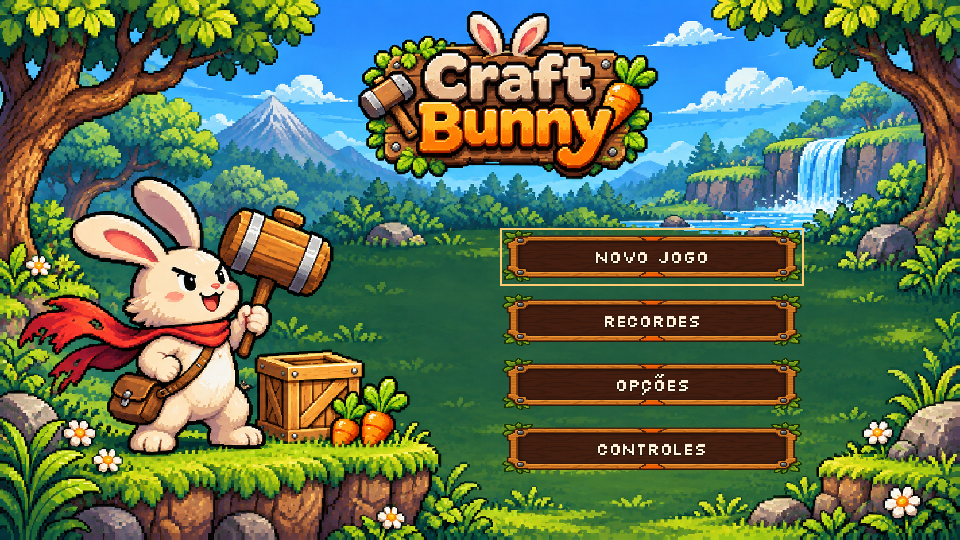
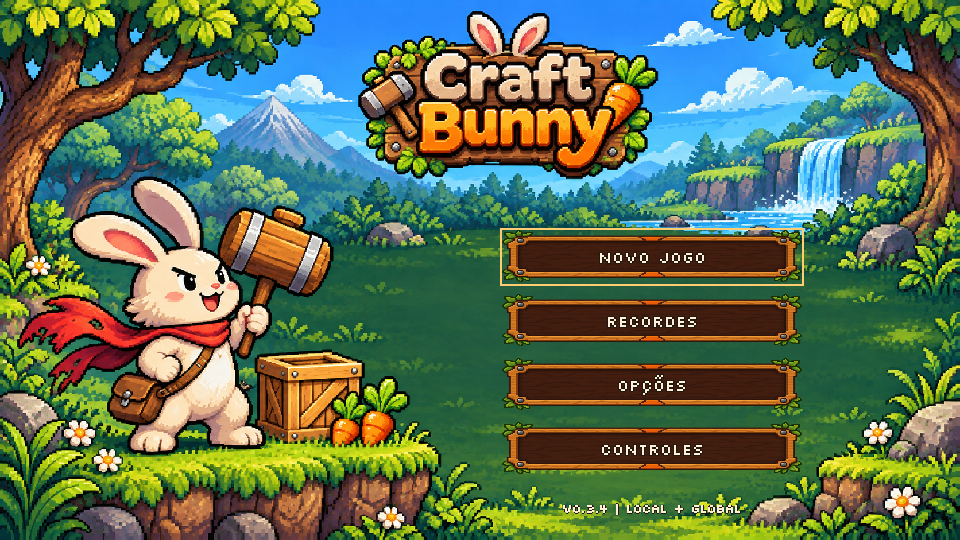
Configure production leaderboard URL and build Android 0.3.4

diff --git a/game/README.md b/game/README.md
@@ -1,6 +1,6 @@
 # Craft Bunny 🐰🔨 — Godot 4
 
-> **Status:** protótipo v0.3.3 com verificações automatizadas e APK de teste exportado; QA completo e playtest em Android físico pendentes. **Objetivo:** concluir uma versão 1.0 jogável de **uma única fase longa**, com pontuação por cenouras e ranking local. **Engine validada:** Godot 4.7.2 / GDScript / 2D.
+> **Status:** protótipo v0.3.4 com verificações automatizadas e APK de teste exportado; QA completo e playtest em Android físico pendentes. **Objetivo:** concluir uma versão 1.0 jogável de **uma única fase longa**, com pontuação por cenouras e ranking local/global. **Engine validada:** Godot 4.7.2 / GDScript / 2D.
 
 ## O jogo
 
@@ -10,13 +10,13 @@
 
 ## Iniciar e testar
 
-Cliente global opcional 0.3.4: confirmação no fim da tentativa, consulta pelo menu RECORDES e ranking local preservado sem internet. Configure a URL pública antes de exportar; o APK anterior 0.3.3 não inclui esta integração. Guia em ../docs/GLOBAL_RANKING.md.
+Cliente global opcional 0.3.4 configurado para https://craftbunny-web.vercel.app: confirmação no fim da tentativa, consulta pelo menu RECORDES e ranking local preservado sem internet. Ao terminar com cenouras, use três letras e ENVIAR AO GLOBAL; REGISTRAR LOCAL não publica. O APK anterior 0.3.3 não inclui esta integração. Guia em ../docs/GLOBAL_RANKING.md.
 
 Título, opções e controles com tema pixel art; inimigos exibem balão de detecção e feedback de dano. Arte, fonte, testes e limitações em assets/production/v2/pixel_menus_feedback.md.
 
 Atualização visual: mundo ampliado em 25% pela câmera, com colisões preservadas. Ataque exclusivo do coelho em 12 quadros, martelo maior e alcance frontal de 32 unidades. Detalhes e testes em assets/production/v2/bunny_attack_12.md.
 
-Versão Android de teste já exportada na pasta de trabalho anterior, com controles multitoque, paisagem e mínimo API 24. APKs não são versionados neste repositório; novas exportações ficam em builds/. Instalação, build e limitações em docs/ANDROID_BUILD.md. Execução em aparelho ainda pendente.
+Versão Android atual em builds/CraftBunny-Android-0.3.4.apk, com controles multitoque, paisagem e mínimo API 24. APKs não são versionados. Instalação, build e limitações em docs/ANDROID_BUILD.md. Execução em aparelho ainda pendente.
 
 1. Instale **Godot 4.3 ou superior**.
 2. Abra o gerenciador de projetos da Godot, clique em **Importar** e escolha `project.godot` nesta pasta.

diff --git a/game/docs/ANDROID_BUILD.md b/game/docs/ANDROID_BUILD.md
@@ -1,19 +1,25 @@
 # Craft Bunny — APK de teste
 
-Build gerado em 2026-11-06 com Godot 4.7.2.
+Build atualizado em 2026-11-07 com Godot 4.7.2.
 
-- Arquivo: builds/CraftBunny-Android-Test.apk
+- Arquivo: builds/CraftBunny-Android-0.3.4.apk (também disponível como CraftBunny-Android-Test.apk).
 - Pacote: com.craftbunny.game
-- Versão: 0.3.3-android-test (código 3), menus pixel art e feedback de dano/detecção.
+- Versão: 0.3.4-android-test (código 4), cliente global configurado para https://craftbunny-web.vercel.app.
 - Mínimo: Android API 24 (Android 7.0), aparelho com OpenGL ES 3 compatível com o renderer Compatibility.
 - Target SDK: 36.
 - Arquiteturas: arm64-v8a e armeabi-v7a.
 - Orientação: paisagem, conteúdo 960x540 com proporção preservada.
-- Tamanho: 79.733.045 bytes (76,04 MiB).
-- SHA256: 776118388750D93A8C7AC7CAA83BFC1715D6A3A23E5988C1D49910FC0DDB8738
+- Tamanho: 79.737.304 bytes (76,04 MiB).
+- SHA256: D7354F4C5C7BE2A2323D84325DFF6400FC4E23A7F7914448E23149546B599722
 - Assinatura de depuração verificada: esquemas v2 e v3.
 
 ## Instalar
+
+Pode atualizar por cima do 0.3.3: mesma assinatura e mesmo pacote, conferidos. No título aparece v0.3.4 | LOCAL + GLOBAL. Comece uma tentativa nova com internet; ao terminar com cenouras, preencha três letras e pressione ENVIAR AO GLOBAL. REGISTRAR LOCAL salva somente no aparelho. Resultados antigos não são enviados retroativamente.
+
+Confirmados no APK: permissão INTERNET e URL real dentro de assets/project.binary. Cliente desktop abriu sessão real e consultou o ranking; nenhum score fictício foi publicado. Envio completo validado em banco local de teste. Playtest Android físico e envio de resultado real ainda pendentes.
+
+tools/build_android.ps1 agora restaura o preset sanitizado ao terminar, inclusive se ocorrer falha, para não deixar caminhos/credenciais locais no arquivo versionado. A configuração headless do editor reportou RIDs em uso ao sair; exportação/assinatura concluíram e importação normal/smoke passaram.
 
 Copie o APK para o celular e abra pelo gerenciador de arquivos. Se solicitado, permita que esse gerenciador instale apps dessa origem. É uma versão de teste para instalação direta; não é uma publicação na Play Store.
 

diff --git a/game/ROADMAP.md b/game/ROADMAP.md
@@ -85,6 +85,8 @@
 
 ## Registro de execução (Codex deve preencher a cada sessão)
 
+Ativação do cliente global (2026-11-07): corrigida URL vazia; configurado https://craftbunny-web.vercel.app e exibida versão 0.3.4 no título. Consulta e abertura de uma sessão reais passaram, sem publicar scores de teste. Dez checks de integração local e 16 de fluxo passaram; importação/smoke e título OpenGL revisados. APK código 4 exportado, assinatura v2/v3, mesma chave do 0.3.3, INTERNET e URL interna conferidos. Build restaura preset sanitizado. Playtest em aparelho e envio público real pendentes. Ver docs/ANDROID_BUILD.md e ../docs/GLOBAL_RANKING.md.
+
 Ranking global (2026-11-07, escopo adicional autorizado): site pixel art, API Vercel e migração Supabase; cliente opcional com confirmação, ranking local independente. 18 testes API/SQL, dez verificações Godot/HTTP/PostgreSQL e 16 checks de fluxo local passaram; build web e QA de filtros/paginação/móvel executados. Ativação online e APK com URL real pendentes. Ver ../docs/GLOBAL_RANKING.md.
 
 Repositório (2026-11-07): cópia organizada em game/, com web/ e supabase/ reservados ao ranking global. Fontes/assets preservados; presets sanitizados; build Android aceita engine externa. Importação/smoke e 50 verificações de fluxo/feedback passaram; 21 arquivos de referência conferidos por hash. Detalhes em ../docs/REPOSITORY_SETUP.md. Nenhuma mudança de gameplay ou integração online nesta etapa.

diff --git a/docs/GLOBAL_RANKING.md b/docs/GLOBAL_RANKING.md
@@ -71,7 +71,7 @@ São validações básicas de plausibilidade e abuso. O servidor não reproduz a
 - Navegador: paginação 1–10/11–14, busca FOX, ausência ZZZ, filtro semanal e vitórias, com 14 resultados fictícios em banco local isolado. Nenhum dado de QA enviado ao Supabase.
 - Visual revisado em janela normal e largura móvel 390 px, sem transbordamento horizontal observado. Capturas qa_ranking_desktop.png (sem configuração online) e qa_ranking_mobile.png (faixa de dados fictícios).
 
-Pendentes: aplicar migração online, variáveis/deploy Vercel, URL real no jogo, APK atualizado e teste em aparelho. Contas criadas não configuram esses itens automaticamente.
+Atualização 2026-11-07: usuário informou migração, variáveis e redeploy concluídos. Consulta e criação de sessão no serviço real https://craftbunny-web.vercel.app foram confirmadas pelo cliente Godot (PRODUCTION_LEADERBOARD=true, PRODUCTION_SESSION=true, PUBLIC_SCORES_SUBMITTED=0). URL configurada no jogo e APK 0.3.4 exportado/assinado; URL e permissão de internet verificadas dentro do pacote. Falta validar uma tentativa real em aparelho e o envio público. Nenhum resultado fictício foi publicado.
 
 ## Referências
 

diff --git a/README.md b/README.md
@@ -11,7 +11,7 @@ Jogo de plataforma 2D em Godot e estrutura para seu futuro ranking global.
 | supabase/ | Migração SQL e instruções de configuração do banco |
 | docs/ | Decisões de integração e validação do repositório |
 
-O jogo possui ranking local e cliente global opcional. Site, API e migração estão implementados e testados localmente. Ativação online depende da migração e configuração dos projetos Supabase/Vercel.
+O jogo possui ranking local e cliente global opcional. Site/API em https://craftbunny-web.vercel.app; consulta e criação de sessão reais verificadas. APK 0.3.4 com URL configurada disponível na pasta local game/builds/. Envio de uma tentativa real em aparelho ainda aguarda playtest.
 
 ## Abrir o jogo
 

diff --git a/supabase/README.md b/supabase/README.md
@@ -14,4 +14,4 @@ Se adotar o Supabase CLI depois, sincronize o histórico da migração manual an
 
 RLS habilitada. Schema privado, tabelas e funções sem acesso de anon/authenticated. RPCs só executáveis pela chave secreta/service_role da API. Não exponha o schema privado na Data API nem libere INSERT público.
 
-Migração testada em PostgreSQL local via PGlite; ainda NÃO aplicada automaticamente no Supabase online. Guia em ../docs/GLOBAL_RANKING.md.
+Migração testada localmente via PGlite e aplicada online pelo usuário. Consulta e criação de sessão reais confirmadas em 2026-11-07; nenhum resultado fictício publicado. Guia em ../docs/GLOBAL_RANKING.md.
